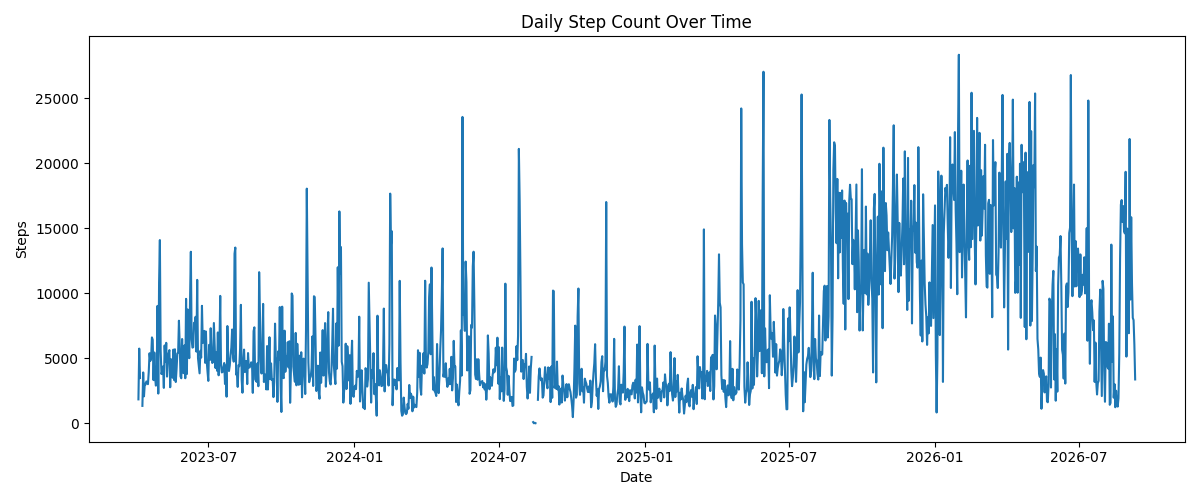
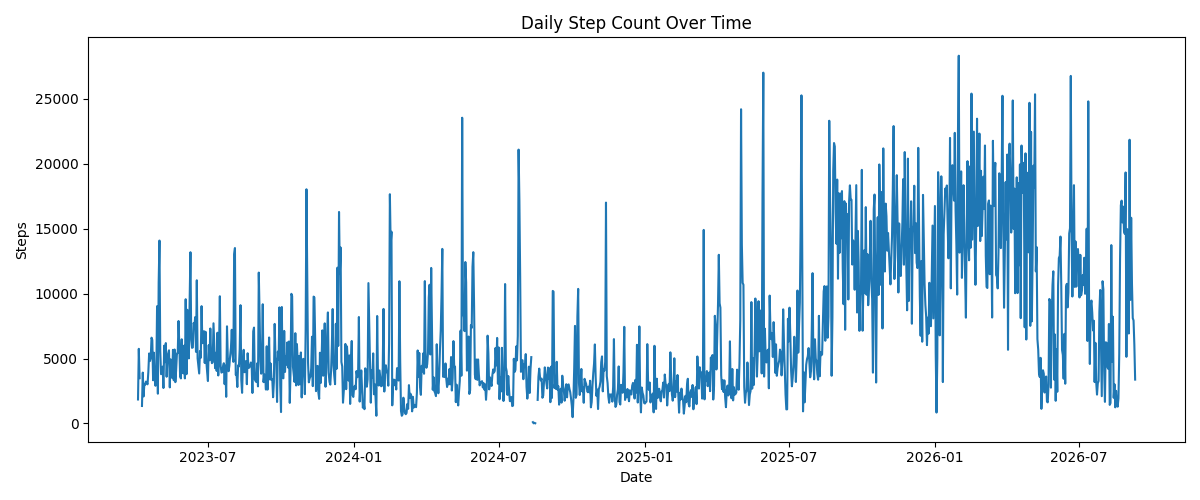
Fix missing-date reindex bug, correct doc claims, add requirements.txt

diff --git a/clean_data.py b/clean_data.py
@@ -47,6 +47,15 @@ wide = daily.pivot(
     values="value",
 ).sort_index()
 
+# 8b. Reindex to a complete daily calendar. pivot() only creates a row for
+# a date if at least one reading exists that day - a date with ZERO readings
+# of any type is silently absent, not just missing values within a row.
+# Reindexing makes those dates show up explicitly as NaN rows instead.
+wide.index = pd.to_datetime(wide.index)
+full_calendar = pd.date_range(wide.index.min(), wide.index.max(), freq="D")
+wide = wide.reindex(full_calendar)
+wide.index.name = "date"
+
 # 9. Save the table, including the date index
 wide.to_csv("daily_summary.csv")
 

diff --git a/speed_vs_steplength.py b/speed_vs_steplength.py
@@ -15,8 +15,8 @@ print(f"Correlation between walking speed and step length: {correlation:.3f}")
 plt.figure(figsize=(6, 6))
 plt.scatter(step_length, speed, alpha=0.3, s=10)
 plt.title("Walking Speed vs. Step Length")
-plt.xlabel("Step Length")
-plt.ylabel("Walking Speed")
+plt.xlabel("Step Length (in)")
+plt.ylabel("Walking Speed (mph)")
 plt.tight_layout()
 plt.savefig("speed_vs_steplength.png")
 plt.close()

diff --git a/README.md b/README.md
@@ -9,7 +9,7 @@ I built this project to investigate how my transition from India to USF appeared
 Turns a raw Apple Health export (`export.xml`, 179MB, 4M+ lines) into clean, analyzable daily data, then explores it:
 
 1. **`extract_data.py`** — streams through the 179MB XML file line-by-line (never loading the whole thing into memory) and pulls out six health metrics, writing them to `raw_records.csv` (337,072 individual readings).
-2. **`clean_data.py`** — aggregates those readings into one row per day (`daily_summary.csv`, 1,254 days), using `sum` for cumulative metrics (steps, distance, energy burned) and `mean` for rate metrics (walking speed, step length) — and explicitly preserves "no data that day" as missing rather than a misleading `0`.
+2. **`clean_data.py`** — aggregates those readings into one row per day, using `sum` for cumulative metrics (steps, distance, energy burned) and `mean` for rate metrics (walking speed, step length) — and explicitly preserves "no data that day" as missing rather than a misleading `0`. The result is reindexed to a complete daily calendar (`daily_summary.csv`, 1,256 days) so a date with zero readings of any type still shows up as a row of `NaN`, rather than silently disappearing.
 3. **`plot_steps.py`** — visualizes daily step count over the full time range.
 4. **`find_cutoff.py`** / **`readings_per_day.py`** — investigate whether an apparent shift in the data reflects a real behavior change or just a tracking artifact (see *What I found*).
 5. **`weekday_weekend.py`** — compares average steps on weekdays vs. weekends over the current, densely-tracked period.
@@ -45,10 +45,12 @@ health-data-analysis/
 ## Setup & usage
 
 ```bash
-pip install pandas matplotlib
+pip install -r requirements.txt
 ```
 
-Get your own export: iPhone Health app → profile icon → **Export All Health Data**, unzip it, place `export.xml` in this folder. Then run the pipeline in order:
+`daily_summary.csv` (the cleaned, aggregated output) is committed to this repo, so you can run any of the plotting/analysis scripts below directly against it without needing your own export.
+
+To regenerate it from scratch: get your own export from iPhone Health app → profile icon → **Export All Health Data**, unzip it, place `export.xml` in this folder. Then run the pipeline in order:
 
 ```bash
 python3 extract_data.py       # -> raw_records.csv
@@ -66,11 +68,11 @@ python3 plot_distance_energy.py # -> distance_energy_trend.png
 **1. A clear shift in daily step counts starting around mid-2025.** Before that point, daily totals are mostly under 10K steps; after it, they're consistently 10K–20K+. My first guess was that this was largely a tracking-consistency artifact (i.e., my phone just wasn't capturing data reliably before). I checked this directly rather than assuming it:
 
 - **Day-level completeness** (what % of days have *any* recorded step data) turned out to be near 100% almost the entire way through, from April 2023 onward — ruling out "the phone just wasn't tracking" as the explanation.
-- **Reading density** (how many individual step-count entries land on an average day) does increase somewhat starting mid-2025 — roughly 30–40% more readings per day — but that's far too small to explain the ~2.5–3x jump in total daily steps.
+- **Reading density** (how many individual step-count entries land on an average day) does increase somewhat starting mid-2025 — roughly 30–40% more readings per day.
 
-**Conclusion:** the shift is mostly a real behavior change, not a measurement artifact — consistent with starting college and walking to classes, which is the explanation I had going in. The tracking-density increase is real but a minor contributor, not the main story. (I initially over-attributed this to tracking inconsistency before checking — worth being upfront that the more careful analysis walked that back.)
+**Conclusion:** the shift is mostly a real behavior change, not a total tracking failure — consistent with starting college and walking to classes, which is the explanation I had going in. That said, these two checks don't fully rule out a measurement-driven contribution: having a reading present each day doesn't guarantee every step was captured, and reading count isn't necessarily proportional to steps recorded (one reading can represent a different amount of activity than another). What the checks do establish is that a ~2.5–3x jump is too large to be explained by a ~30–40% increase in reading density alone, so real behavior change is the best-supported explanation, even though I can't fully quantify how much of the shift is measurement vs. behavior. (I initially over-attributed this to tracking inconsistency before checking, then stated the walked-back conclusion more confidently than the checks actually supported — worth being upfront about both.)
 
-**2. Weekdays average more steps than weekends, since starting college.** Restricted to the current, densely-tracked period (Aug 2025–present): weekdays average **12,589 steps**, weekends **11,485** — roughly a 10% difference. Consistent with extra walking on class days, though it's a modest gap, not a dramatic one.
+**2. Weekdays average more steps than weekends, over the Aug 2025–present period (roughly since starting college).** Restricted to this current, densely-tracked period: weekdays average **12,589 steps**, weekends **11,485** — roughly a 10% difference. Consistent with extra walking on class days, though it's a modest gap, not a dramatic one.
 
 **3. Walking speed and step length are very strongly correlated (r = 0.978).** Daily average walking speed and step length showed a strong positive correlation. These measures are physically related, and shared measurement methods (both likely derived from the same underlying stride-detection data) may contribute to the association. This analysis does not establish causation or separate genuine behavioral patterns from measurement effects.
 
@@ -89,12 +91,14 @@ python3 plot_distance_energy.py # -> distance_energy_trend.png
 ## Limitations
 
 - No Apple Watch data in this export — no heart rate or sleep data, only iPhone motion-sensor metrics (steps, distance, walking quality).
-- The weekday/weekend and correlation analyses cover roughly the last year (since Aug 2025) rather than the full 3+ years, by choice — this reflects my current routine rather than a data-quality exclusion.
+- The weekday/weekend comparison covers roughly the last year (since Aug 2025) rather than the full 3+ years, by choice — this reflects my current routine rather than a data-quality exclusion. The speed/step-length correlation, by contrast, uses the full 3+ year dataset (r = 0.978); restricted to Aug 2025–present alone it's r = 0.942, so the relationship holds either way rather than being an artifact of one date range.
 - This is one person's data — not meant to generalize beyond my own patterns.
 - The speed/step-length correlation may partly reflect how the two metrics are measured, not just biomechanics — see write-up above.
+- `extract_data.py` parses the XML with line-based regex rather than a proper XML parser, and keeps only `type`, `start_date`, and `value` per record — not unit or source. I manually verified directly against the export that all six metrics use one consistent unit throughout (mph, mi, Cal, in, count) and one source (my iPhone), so this isn't biasing any result here, but the pipeline itself can't check that automatically today.
 
 ## What's next
 
+- Preserve unit and source metadata during extraction, and parse the XML with a real streaming parser (e.g. `xml.etree.ElementTree.iterparse`) instead of line-based regex, so unit/source consistency is checked automatically instead of by hand.
 - Final polish pass and a proper results write-up.
 
 ## Lessons learned
